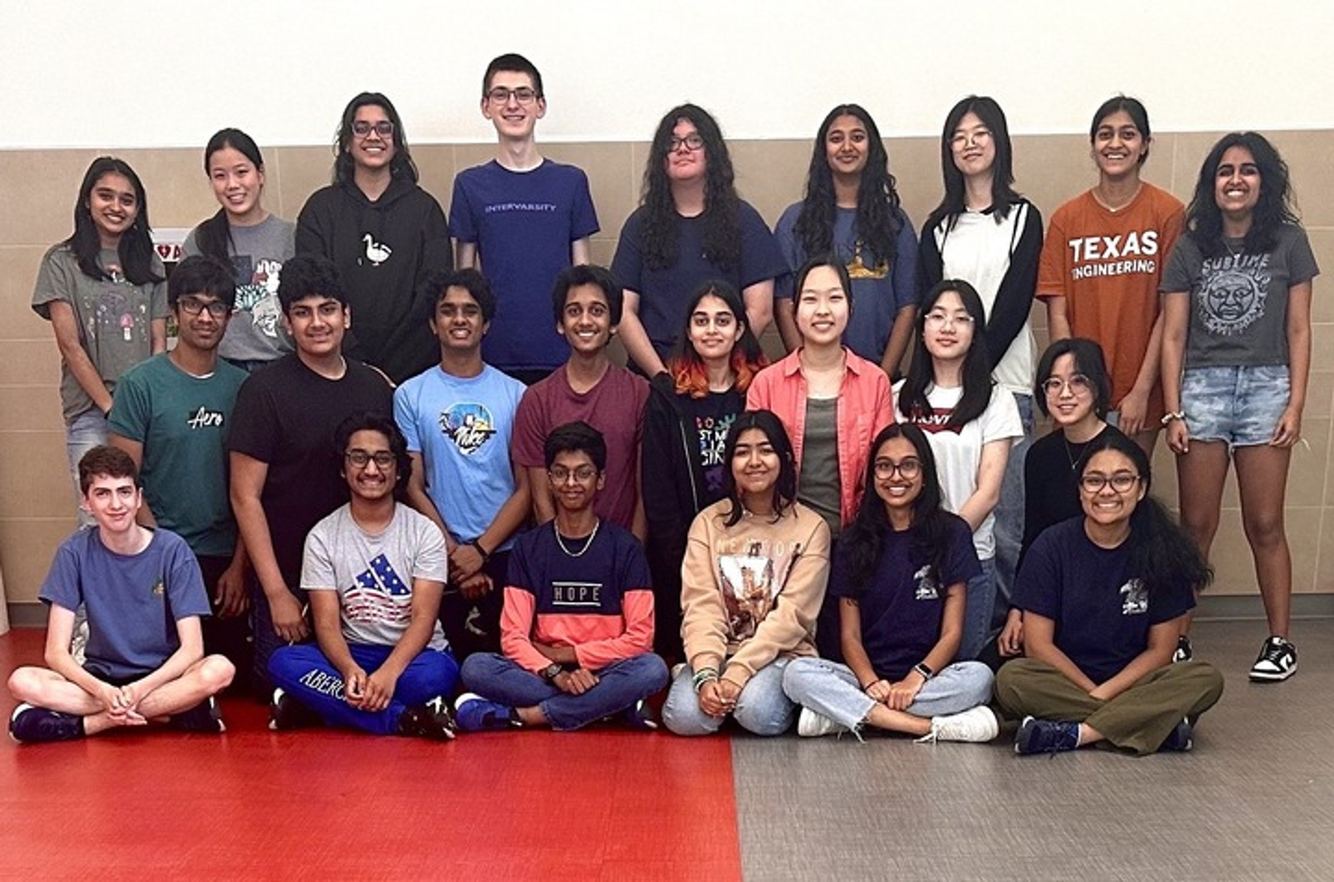
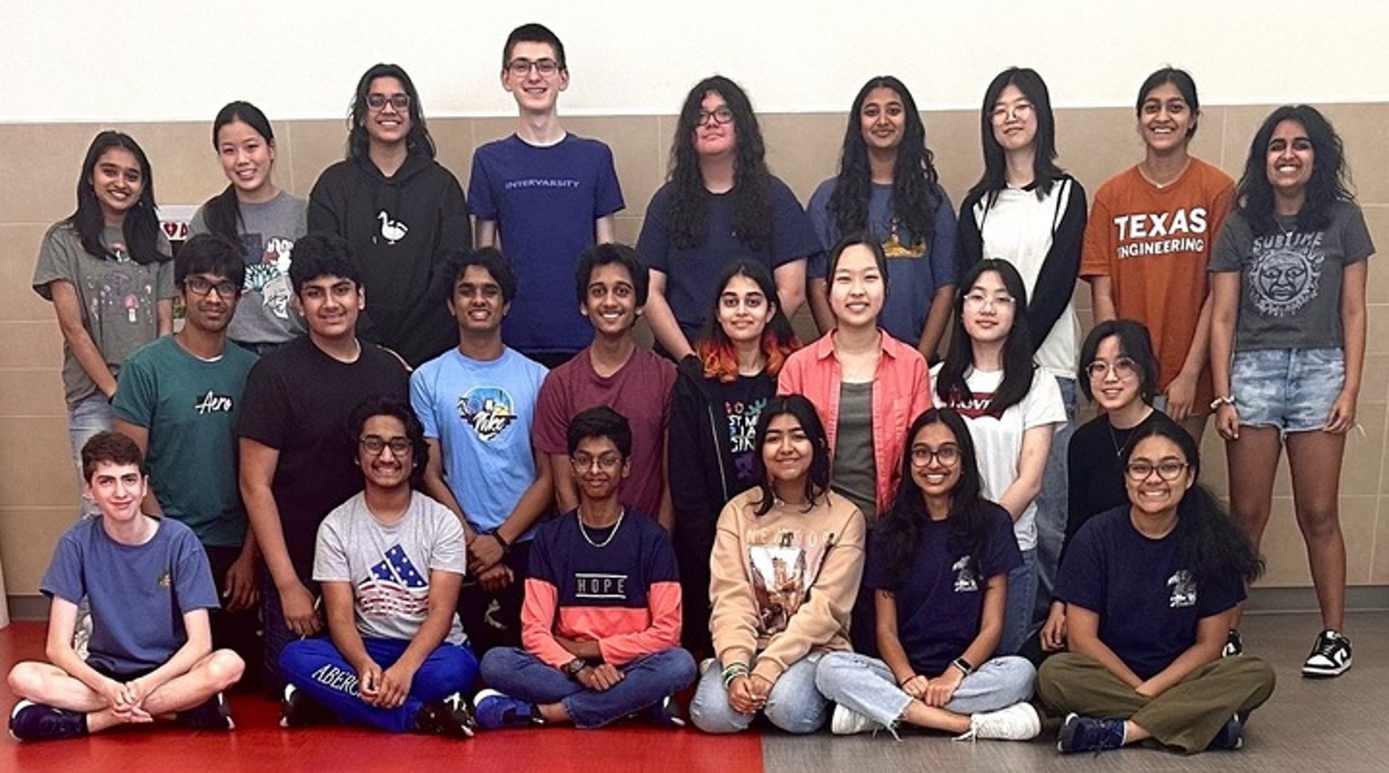
imgs

diff --git a/css/styles.css b/css/styles.css
@@ -11362,7 +11362,11 @@ section#contact form#contactForm :-ms-input-placeholder {
   width: 50vw;
   height: 50vh;
   background-image: url('../assets/img/grouppic.jpeg');
-  background-size: cover;
+  background-size: contain; /* Adjusted to contain */
+  background-repeat: no-repeat; /* Prevent image from repeating */
+  background-position: center; /* Center the background */
+  opacity: 1; /* Set initial opacity to 1 */
+  transition: opacity 0.4s ease-in-out; /* Apply transition effect */
 }
 
 .grouppic::before {
@@ -11374,10 +11378,17 @@ section#contact form#contactForm :-ms-input-placeholder {
   height: 100%;
   background-image: url('../assets/img/funnypic.jpg');
   background-size: cover;
+  background-size: contain; /* Adjusted to contain */
+  background-repeat: no-repeat; /* Prevent image from repeating */
+  background-position: center; /* Center the background */
   opacity: 0;
   transition: opacity 0.4s ease-in-out;
 }
 
 .grouppic:hover::before {
   opacity: 1;
+}
+
+.grouppic:hover {
+  opacity: 1; /* Set opacity to 1 on hover */
 }
